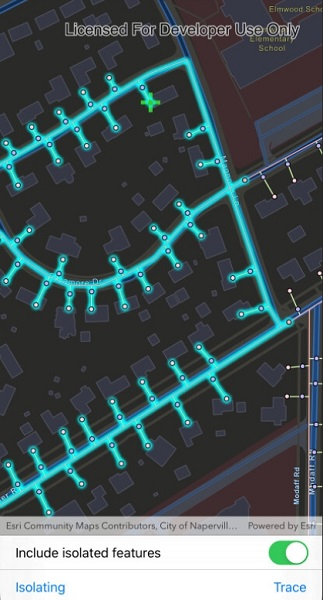
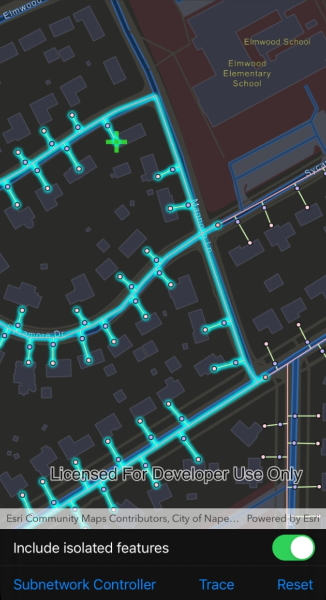
PVIT: Updated Xamarin.iOS
Couldnt test on new SS7 due to network difficulties, everything short of the trace works correctly

diff --git a/src/iOS/Xamarin.iOS/Samples/Utility network/PerformValveIsolationTrace/PerformValveIsolationTrace.cs b/src/iOS/Xamarin.iOS/Samples/Utility network/PerformValveIsolationTrace/PerformValveIsolationTrace.cs
@@ -1,4 +1,4 @@
-// Copyright 2020 Esri.
+// Copyright 2021 Esri.
 //
 // Licensed under the Apache License, Version 2.0 (the "License"); you may not use this file except in compliance with the License.
 // You may obtain a copy of the License at: http://www.apache.org/licenses/LICENSE-2.0
@@ -19,6 +19,7 @@ using Foundation;
 using System;
 using System.Collections.Generic;
 using System.Linq;
+using System.Threading.Tasks;
 using UIKit;
 
 namespace ArcGISRuntimeXamarin.Samples.PerformValveIsolationTrace
@@ -37,7 +38,9 @@ namespace ArcGISRuntimeXamarin.Samples.PerformValveIsolationTrace
         private UIBarButtonItem _categoryButton;
         private UISwitch _featuresSwitch;
         private UIBarButtonItem _traceButton;
+        private UIBarButtonItem _resetButton;
         private UIActivityIndicatorView _loadingView;
+        private UIToolbar _buttonToolbar;
 
         // Feature service for an electric utility network in Naperville, Illinois.
         private const string FeatureServiceUrl = "https://sampleserver7.arcgisonline.com/arcgis/rest/services/UtilityNetwork/NapervilleGas/FeatureServer";
@@ -48,16 +51,17 @@ namespace ArcGISRuntimeXamarin.Samples.PerformValveIsolationTrace
         // For creating the default trace configuration.
         private const string DomainNetworkName = "Pipeline";
         private const string TierName = "Pipe Distribution System";
-        private UtilityTraceConfiguration _configuration;
 
         // For creating the default starting location.
         private const string NetworkSourceName = "Gas Device";
         private const string AssetGroupName = "Meter";
         private const string AssetTypeName = "Customer";
         private const string GlobalId = "{98A06E95-70BE-43E7-91B7-E34C9D3CB9FF}";
-        private UtilityElement _startingLocation;
 
         private UtilityCategory _selectedCategory;
+        private UtilityTraceParameters _parameters;
+        private TaskCompletionSource<string> _terminalCompletionSource = null;
+        private SimpleMarkerSymbol _barrierPointSymbol = new SimpleMarkerSymbol(SimpleMarkerSymbolStyle.X, System.Drawing.Color.OrangeRed, 25d);
 
         public PerformValveIsolationTrace()
         {
@@ -84,24 +88,29 @@ namespace ArcGISRuntimeXamarin.Samples.PerformValveIsolationTrace
                 // Get a trace configuration from a tier.
                 UtilityDomainNetwork domainNetwork = _utilityNetwork.Definition.GetDomainNetwork(DomainNetworkName) ?? throw new ArgumentException(DomainNetworkName);
                 UtilityTier tier = domainNetwork.GetTier(TierName) ?? throw new ArgumentException(TierName);
-                _configuration = tier.TraceConfiguration;
+                UtilityTraceConfiguration configuration = tier.TraceConfiguration;
 
                 // Create a trace filter.
-                _configuration.Filter = new UtilityTraceFilter();
+                configuration.Filter = new UtilityTraceFilter();
 
                 // Get a default starting location.
                 UtilityNetworkSource networkSource = _utilityNetwork.Definition.GetNetworkSource(NetworkSourceName) ?? throw new ArgumentException(NetworkSourceName);
                 UtilityAssetGroup assetGroup = networkSource.GetAssetGroup(AssetGroupName) ?? throw new ArgumentException(AssetGroupName);
                 UtilityAssetType assetType = assetGroup.GetAssetType(AssetTypeName) ?? throw new ArgumentException(AssetTypeName);
                 Guid globalId = Guid.Parse(GlobalId);
-                _startingLocation = _utilityNetwork.CreateElement(assetType, globalId);
+                UtilityElement startingLocation = _utilityNetwork.CreateElement(assetType, globalId);
+
+                // Build parameters for isolation trace.
+                _parameters = new UtilityTraceParameters(UtilityTraceType.Isolation, new[] { startingLocation });
+                _parameters.TraceConfiguration = tier.TraceConfiguration;
 
                 // Create a graphics overlay.
                 GraphicsOverlay overlay = new GraphicsOverlay();
                 _myMapView.GraphicsOverlays.Add(overlay);
+                _myMapView.GraphicsOverlays.Add(new GraphicsOverlay() { Id = "FilterBarriers" });
 
                 // Display starting location.
-                IEnumerable<ArcGISFeature> elementFeatures = await _utilityNetwork.GetFeaturesForElementsAsync(new List<UtilityElement> { _startingLocation });
+                IEnumerable<ArcGISFeature> elementFeatures = await _utilityNetwork.GetFeaturesForElementsAsync(new List<UtilityElement> { startingLocation });
                 MapPoint startingLocationGeometry = elementFeatures.FirstOrDefault().Geometry as MapPoint;
                 Symbol symbol = new SimpleMarkerSymbol(SimpleMarkerSymbolStyle.Cross, System.Drawing.Color.LimeGreen, 25d);
                 Graphic graphic = new Graphic(startingLocationGeometry, symbol);
@@ -154,25 +163,34 @@ namespace ArcGISRuntimeXamarin.Samples.PerformValveIsolationTrace
                 // Clear previous selection from the layers.
                 _myMapView.Map.OperationalLayers.OfType<FeatureLayer>().ToList().ForEach(layer => layer.ClearSelection());
 
-                if (_selectedCategory != null)
+                // Check if any filter barriers have been placed.
+                if (_parameters.FilterBarriers.Count == 0)
                 {
-                    // NOTE: UtilityNetworkAttributeComparison or UtilityCategoryComparison with Operator.DoesNotExists
-                    // can also be used. These conditions can be joined with either UtilityTraceOrCondition or UtilityTraceAndCondition.
-                    UtilityCategoryComparison categoryComparison = new UtilityCategoryComparison(_selectedCategory, UtilityCategoryComparisonOperator.Exists);
+                    if (_selectedCategory is UtilityCategory category)
+                    {
+                        // NOTE: UtilityNetworkAttributeComparison or UtilityCategoryComparison with Operator.DoesNotExists
+                        // can also be used. These conditions can be joined with either UtilityTraceOrCondition or UtilityTraceAndCondition.
+                        UtilityCategoryComparison categoryComparison = new UtilityCategoryComparison(category, UtilityCategoryComparisonOperator.Exists);
 
-                    // Add the filter barrier.
-                    _configuration.Filter.Barriers = categoryComparison;
+                        // Add the filter barrier.
+                        _parameters.TraceConfiguration.Filter = new UtilityTraceFilter()
+                        {
+                            Barriers = categoryComparison
+                        };
+                    }
+
+                    // Set the include isolated features property.
+                    _parameters.TraceConfiguration.IncludeIsolatedFeatures = _featuresSwitch.On;
+                }
+                else
+                {
+                    // Reset the trace configuration filter.
+                    _parameters.TraceConfiguration.Filter = new UtilityTraceFilter();
+                    _parameters.TraceConfiguration.IncludeIsolatedFeatures = false;
                 }
 
-                // Set the include isolated features property.
-                _configuration.IncludeIsolatedFeatures = _featuresSwitch.On;
-
-                // Build parameters for isolation trace.
-                UtilityTraceParameters parameters = new UtilityTraceParameters(UtilityTraceType.Isolation, new[] { _startingLocation });
-                parameters.TraceConfiguration = _configuration;
-
                 // Get the trace result from trace.
-                IEnumerable<UtilityTraceResult> traceResult = await _utilityNetwork.TraceAsync(parameters);
+                IEnumerable<UtilityTraceResult> traceResult = await _utilityNetwork.TraceAsync(_parameters);
                 UtilityElementTraceResult elementTraceResult = traceResult?.FirstOrDefault() as UtilityElementTraceResult;
 
                 // Select all the features from the result.
@@ -196,6 +214,116 @@ namespace ArcGISRuntimeXamarin.Samples.PerformValveIsolationTrace
             }
         }
 
+        private async void OnGeoViewTapped(object sender, GeoViewInputEventArgs e)
+        {
+            try
+            {
+                _loadingView.StartAnimating();
+
+                // Identify the feature to be used.
+                IEnumerable<IdentifyLayerResult> identifyResult = await _myMapView.IdentifyLayersAsync(e.Position, 10.0, false);
+                ArcGISFeature feature = identifyResult?.FirstOrDefault()?.GeoElements?.FirstOrDefault() as ArcGISFeature;
+                if (feature == null) { return; }
+
+                // Create element from the identified feature.
+                UtilityElement element = _utilityNetwork.CreateElement(feature);
+
+                if (element.NetworkSource.SourceType == UtilityNetworkSourceType.Junction)
+                {
+                    // Select terminal for junction feature.
+                    IEnumerable<UtilityTerminal> terminals = element.AssetType.TerminalConfiguration?.Terminals;
+                    if (terminals?.Count() > 1)
+                    {
+                        element.Terminal = await WaitForTerminal(terminals);
+                    }
+                }
+                else if (element.NetworkSource.SourceType == UtilityNetworkSourceType.Edge)
+                {
+                    // Compute how far tapped location is along the edge feature.
+                    if (feature.Geometry is Polyline line)
+                    {
+                        line = GeometryEngine.RemoveZ(line) as Polyline;
+                        double fraction = GeometryEngine.FractionAlong(line, e.Location, -1);
+                        if (double.IsNaN(fraction)) { return; }
+                        element.FractionAlongEdge = fraction;
+                    }
+                }
+
+                _parameters.FilterBarriers.Add(element);
+
+                // Add a graphic for the new utility element.
+                Graphic traceLocationGraphic = new Graphic(feature.Geometry as MapPoint ?? e.Location, _barrierPointSymbol);
+                _myMapView.GraphicsOverlays["FilterBarriers"]?.Graphics.Add(traceLocationGraphic);
+
+                // Disable UI not used for filter barriers.
+                _categoryButton.Enabled = _featuresSwitch.Enabled = false;
+            }
+            catch (Exception ex)
+            {
+                new UIAlertView(ex.GetType().Name, ex.Message, (IUIAlertViewDelegate)null, "OK", null).Show();
+            }
+            finally
+            {
+                _loadingView.StopAnimating();
+            }
+        }
+
+        #region TerminalSelection
+
+        private async Task<UtilityTerminal> WaitForTerminal(IEnumerable<UtilityTerminal> terminals)
+        {
+            try
+            {
+                // Prevent user from tapping map while selecting terminal.
+                _myMapView.GeoViewTapped -= OnGeoViewTapped;
+
+                // Start the UI for the user choosing the junction.
+                UIAlertController prompt = UIAlertController.Create(null, "Choose terminal", UIAlertControllerStyle.ActionSheet);
+
+                foreach (UtilityTerminal terminal in terminals)
+                {
+                    prompt.AddAction(UIAlertAction.Create(terminal.Name, UIAlertActionStyle.Default, Choose_Click));
+                }
+
+                // Needed to prevent crash on iPad.
+                UIPopoverPresentationController ppc = prompt.PopoverPresentationController;
+                if (ppc != null)
+                {
+                    ppc.SourceView = _buttonToolbar;
+                    ppc.PermittedArrowDirections = UIPopoverArrowDirection.Down;
+                    ppc.DidDismiss += (s, e) => _terminalCompletionSource.TrySetCanceled();
+                }
+
+                PresentViewController(prompt, true, null);
+
+                // Wait for the user to select a terminal.
+                _terminalCompletionSource = new TaskCompletionSource<string>();
+                string selectedName = await _terminalCompletionSource.Task;
+                return terminals.Where(x => x.Name.Equals(selectedName)).FirstOrDefault();
+            }
+            finally
+            {
+                // Enable the main UI again.
+                _myMapView.GeoViewTapped += OnGeoViewTapped;
+            }
+        }
+
+        private void Choose_Click(UIAlertAction action)
+        {
+            _terminalCompletionSource.TrySetResult(action.Title);
+        }
+
+        #endregion TerminalSelection
+
+        private void OnReset(object sender, EventArgs e)
+        {
+            _parameters.FilterBarriers.Clear();
+            _myMapView.GraphicsOverlays["FilterBarriers"]?.Graphics.Clear();
+
+            // Disable UI not used for filter barriers.
+            _categoryButton.Enabled = _featuresSwitch.Enabled = true;
+        }
+
         public override void LoadView()
         {
             // Create the views.
@@ -203,7 +331,7 @@ namespace ArcGISRuntimeXamarin.Samples.PerformValveIsolationTrace
 
             _myMapView = new MapView() { TranslatesAutoresizingMaskIntoConstraints = false };
             var switchToolbar = new UIToolbar() { TranslatesAutoresizingMaskIntoConstraints = false };
-            var buttonToolbar = new UIToolbar() { TranslatesAutoresizingMaskIntoConstraints = false };
+            _buttonToolbar = new UIToolbar() { TranslatesAutoresizingMaskIntoConstraints = false };
 
             var switchLabel = new UILabel() { TranslatesAutoresizingMaskIntoConstraints = false };
             switchLabel.Text = "Include isolated features";
@@ -216,11 +344,14 @@ namespace ArcGISRuntimeXamarin.Samples.PerformValveIsolationTrace
 
             _categoryButton = new UIBarButtonItem() { Title = "Filter Barrier Category" };
             _traceButton = new UIBarButtonItem() { Title = "Trace" };
+            _resetButton = new UIBarButtonItem() { Title = "Reset" };
 
-            buttonToolbar.Items = new UIBarButtonItem[] {
+            _buttonToolbar.Items = new UIBarButtonItem[] {
                 _categoryButton,
                 new UIBarButtonItem(UIBarButtonSystemItem.FlexibleSpace),
-                _traceButton
+                _traceButton,
+                new UIBarButtonItem(UIBarButtonSystemItem.FlexibleSpace),
+                _resetButton,
             };
 
             _loadingView = new UIActivityIndicatorView(UIActivityIndicatorViewStyle.WhiteLarge)
@@ -231,7 +362,7 @@ namespace ArcGISRuntimeXamarin.Samples.PerformValveIsolationTrace
             };
 
             // Add the views.
-            View.AddSubviews(_myMapView, switchToolbar, buttonToolbar, _loadingView);
+            View.AddSubviews(_myMapView, switchToolbar, _buttonToolbar, _loadingView);
 
             // Lay out the views.
             NSLayoutConstraint.ActivateConstraints(new[]{
@@ -241,14 +372,14 @@ namespace ArcGISRuntimeXamarin.Samples.PerformValveIsolationTrace
                 _myMapView.TrailingAnchor.ConstraintEqualTo(View.SafeAreaLayoutGuide.TrailingAnchor),
 
                 switchToolbar.TopAnchor.ConstraintEqualTo(_myMapView.BottomAnchor),
-                switchToolbar.BottomAnchor.ConstraintEqualTo(buttonToolbar.TopAnchor),
+                switchToolbar.BottomAnchor.ConstraintEqualTo(_buttonToolbar.TopAnchor),
                 switchToolbar.LeadingAnchor.ConstraintEqualTo(View.SafeAreaLayoutGuide.LeadingAnchor),
                 switchToolbar.TrailingAnchor.ConstraintEqualTo(View.SafeAreaLayoutGuide.TrailingAnchor),
 
-                buttonToolbar.TopAnchor.ConstraintEqualTo(switchToolbar.BottomAnchor),
-                buttonToolbar.BottomAnchor.ConstraintEqualTo(View.SafeAreaLayoutGuide.BottomAnchor),
-                buttonToolbar.LeadingAnchor.ConstraintEqualTo(View.SafeAreaLayoutGuide.LeadingAnchor),
-                buttonToolbar.TrailingAnchor.ConstraintEqualTo(View.SafeAreaLayoutGuide.TrailingAnchor),
+                _buttonToolbar.TopAnchor.ConstraintEqualTo(switchToolbar.BottomAnchor),
+                _buttonToolbar.BottomAnchor.ConstraintEqualTo(View.SafeAreaLayoutGuide.BottomAnchor),
+                _buttonToolbar.LeadingAnchor.ConstraintEqualTo(View.SafeAreaLayoutGuide.LeadingAnchor),
+                _buttonToolbar.TrailingAnchor.ConstraintEqualTo(View.SafeAreaLayoutGuide.TrailingAnchor),
 
                 _loadingView.TopAnchor.ConstraintEqualTo(View.SafeAreaLayoutGuide.TopAnchor),
                 _loadingView.BottomAnchor.ConstraintEqualTo(View.SafeAreaLayoutGuide.BottomAnchor),
@@ -264,6 +395,8 @@ namespace ArcGISRuntimeXamarin.Samples.PerformValveIsolationTrace
             // Subscribe to events.
             _traceButton.Clicked += OnTrace;
             _categoryButton.Clicked += CategoryClicked;
+            _resetButton.Clicked += OnReset;
+            _myMapView.GeoViewTapped += OnGeoViewTapped;
         }
 
         public override void ViewDidDisappear(bool animated)
